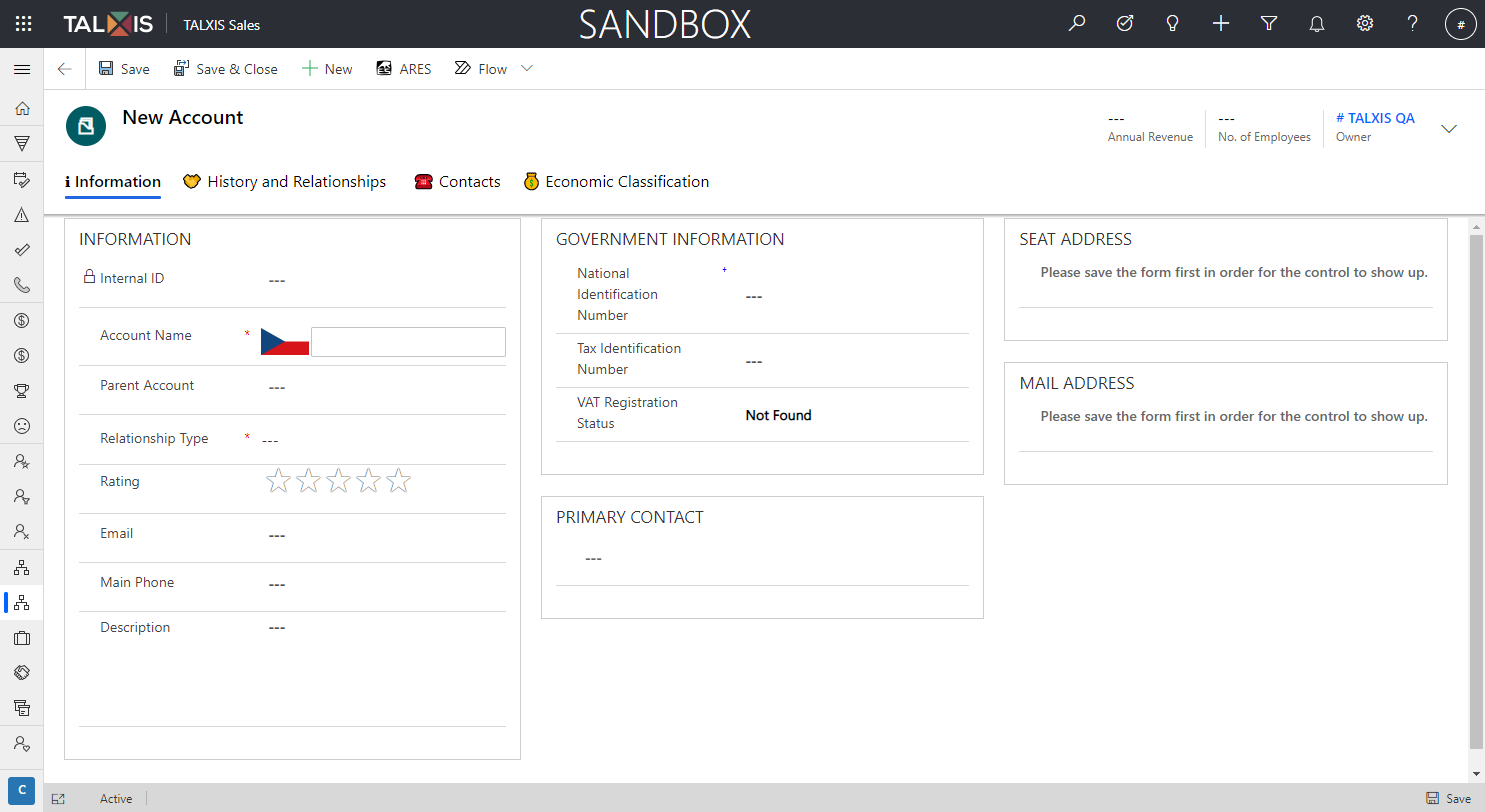
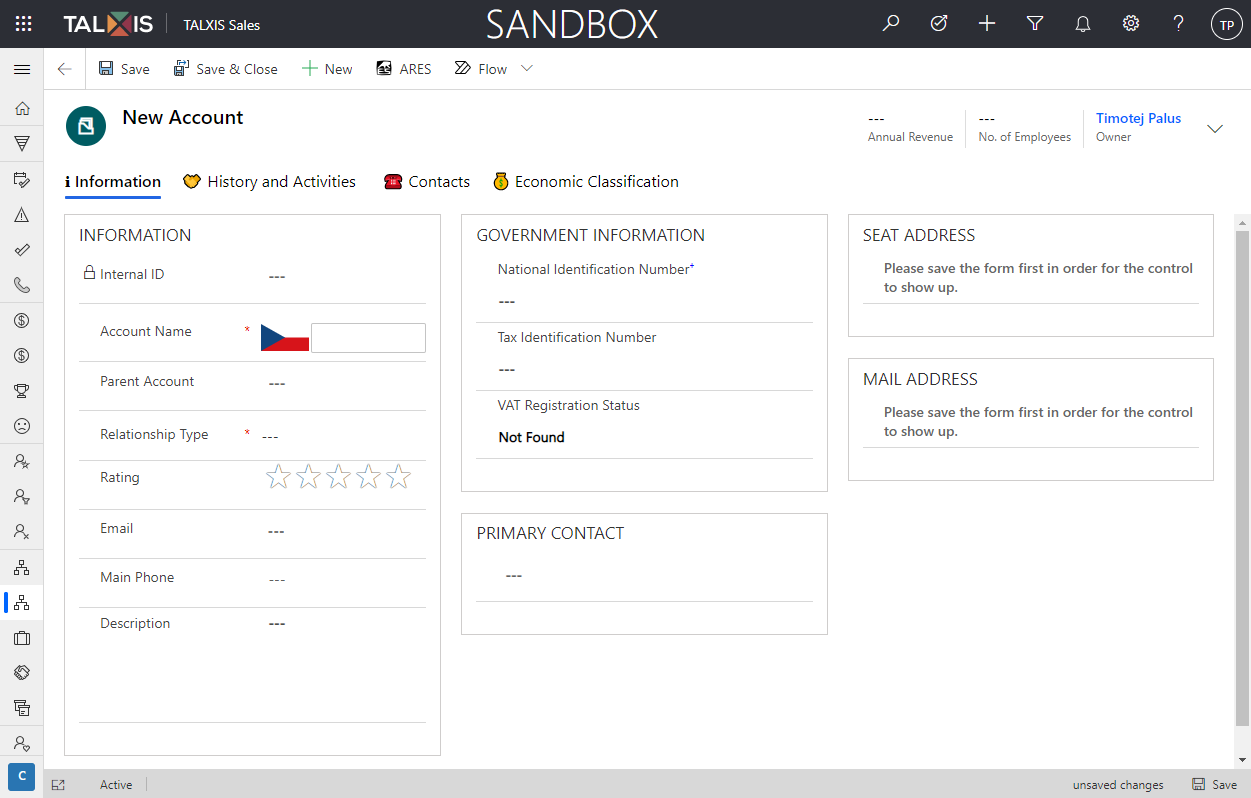
add account page, do little changes

diff --git a/src/.vuepress/config.js b/src/.vuepress/config.js
@@ -403,7 +403,8 @@ module.exports = config({
                                                     ] 
                                                 }                                      
                                             ]
-                                        },   
+                                        },
+                                        ['model-driven-apps/basic-app-elements/dashboards','Dashboards'],  
                                     ],
                         },
                         {

diff --git a/src/en/user-guide/model-driven-apps/business-process/contact-management/use-accounts.md b/src/en/user-guide/model-driven-apps/business-process/contact-management/use-accounts.md
@@ -3,11 +3,10 @@ author: Timotej Paluš
 ---
 
 # Use accounts to manage customer companies
-
+## What is an Account?
 Accounts are companies that you market and sell to. They can also be partner companies or suppliers. If you use accounts, you'll usually also set up at least one contact for each of them, these contacts usually represent employees at the company.
 
 ## List of all accounts
-
 You can view all created accounts in the application. To view them, just go to the **Organizations** group and you will see a view with accounts. In addition, the **Organizations** group is divided into customers, partners, suppliers for a better overview. If you don't know what views are, take a look at this page: [View records](/en/user-guide/model-driven-apps/basic-app-elements/views/).
 
 ![Accounts view](/.attachments/ModelDrivenAppUserGuide/accountsView.png)
@@ -24,11 +23,101 @@ Let's create a new account:
 
 ![Account form](/.attachments/ModelDrivenAppUserGuide/accountForm.png)
 
-in progress...
-## History of activities
+3. Fill in the form.
+
+There are many fields in the form that can be filled out. Not all fields and tabs are available immediately after opening the form, but only after saving the form. 
+
+The form header contains the **owner** of the account, **annual revenue** and the **number of employees** within the account.
+
+The fields described in the tables below are divided by section.
+
+**Account information**  
+| Field        | Description    | Example |
+|:------------- |:-------------|:------------|
+| Internal ID      | Automatically generated id after saving the account. | ORG00001 |
+| Account Name     | The account name can be found by selecting the country and entering the name. This field is **required**. [Select account](/en/user-guide/model-driven-apps/business-process/contact-management/use-accounts/#select-account-name)  | |
+| Parent Account | Parent account associated with account. You can select an existing company with [lookup control](/en/user-guide/model-driven-apps/basic-app-elements/lookup/) or create a new one via forms or [quickcreate form](/en/user-guide/model-driven-apps/basic-app-elements/forms#quickcreate-form/). |  |
+| Relationship Type |  Type of relationship with the organization. This field is **required** and you must select at least one relationship type. | Customer/Partner/Supplier/Prospect/Indirect Cutomer/Other |
+| Rating | Subjective rating of the account. More green stars means a higher rating. | ![Rating](/.attachments/ModelDrivenAppUserGuide/rating.png) |
+| Email | Account(company) email. | hello@networg.com |
+| Main Phone | Company phone number. |  |
+| Description | Brief description of the company. | A company with good manners and the ability to repay. |
+
+**Government information**
+
+| Field        | Description    | Example |
+|:------------- |:-------------|:------------|
+| National Identification Number     | National identification number of account. This field is filled in automatically when account name is selected. | 34114050 |
+| Tax Identification Number     | A Tax Identification Number (TIN) is a nine-digit number used as a tracking number. | |
+| VAT Registration Status | VAT Registration Status tells us whether the account is a reliable payer or an unreliable payer. | Reliable payer/Unreliable payer/Not found |
+
+**Selecting the country and entering the name**
+
+4. Save the form using the **Save** button.
+
+## Select account name 
+When you select an account, you set the country in which the account is located and the account name.
+
+**Select country**  
+When selecting a country, you can enter a country abbreviation or select from a list of countries.
+
+![Select country](/.attachments/ModelDrivenAppUserGuide/chooseCountry.gif)
+
+**Select account**  
+To select an account, just type in the name and you'll see the search results.
+
+![Select account](/.attachments/ModelDrivenAppUserGuide/selectAccount.gif)
+
+## Select primary contact
+On the form in the **PRIMARY CONTACT** section, set the main contact with whom you most often communicate within the company.
+
+You can select an existing contact with [lookup control](/en/user-guide/model-driven-apps/basic-app-elements/lookup/) or create a new one via [forms](/en/user-guide/model-driven-apps/business-process/contact-management/use-accounts/) or [quickcreate form](../../basic-app-elements/forms/#quickcreate-form).
+
+![Primary contact](/.attachments/ModelDrivenAppUserGuide/accountPrimaryContact.png)
+
+## Set seat and mail address
+Seat and mail address is automatically filled in after selecting the account. Addresses can be edited or added as shown on this [page](/en/user-guide/model-driven-apps/business-process/contact-management/use-contacts/#set-contact-address).
+
+![Seat Address](/.attachments/ModelDrivenAppUserGuide/seatAddress.png)
+
+## History and activities
+In the **History and Activities** tab you will find the timeline. The **timeline** is used to store **activities** linked to a record. This functionality is available only after saving a new account. More information [here](/en/user-guide/model-driven-apps/basic-app-elements/timeline/).
+
+![History and activities](/.attachments/ModelDrivenAppUserGuide/accountTimeline.png)
 
 ## Contacts associated with account
+In the **Contact** tab you can find all contacts that are assigned to the account. You can add new or delete old contacts. In the Contact tab you can find all contacts that are assigned to the account. You can add new or delete old contacts. This functionality is available only after saving a new account. If you don't know how to use the buttons at subgrid, see [Subgrid](/en/user-guide/model-driven-apps/basic-app-elements/subgrid/).
+
+![Contact associated with account](/.attachments/ModelDrivenAppUserGuide/accountContacts.png)
 
 ## Economic classification
+Economic classification classifies companies, organizations and traders into industrial groupings based on similar production processes, similar products, or similar behavior in financial markets. 
+
+You can select from existing economic classifications or create a new economic classification.
+
+**Create a new economic classification**
+1. In the subgrid, press **Add Existing Classification**.
+
+![Create a new economic classification](/.attachments/ModelDrivenAppUserGuide/economicClass.png)
+
+2. In the quick create form, select the **New record** and then select the **Classification of Economic Activities** type.
+
+3. You will be notified that you are leaving the form. Press **OK** and then enter the name of the classification in the form.
+
+![Create a new economic classification](/.attachments/ModelDrivenAppUserGuide/classificationForm.png)
+
+4. Press **Save & Close** in command bar.
+You will be redirected back to the account form and now when you press the **Add Existing Classification** button, you will see the classifications you have created in the list.
+
+5. Select a classification and add it to the account.
+
+![Create a new economic classification](/.attachments/ModelDrivenAppUserGuide/addClass.png)
 
 ## Deactivate account
+You deactivate an account or contact rather than deleting it. This ensures the integrity of the audit trail associated with that record.
+
+When a deactivated contact becomes inactive, it cannot be edited. However, it can still be used to establish new relationships with other records. All relationships created with the deactivated item are still available.
+
+1. To deactivate an account, press the **Deactivate** button and confirm it in the dialog. 
+
+![Create a new economic classification](/.attachments/ModelDrivenAppUserGuide/deactivateAccount.png)

diff --git a/src/en/user-guide/model-driven-apps/business-process/contact-management/use-contacts.md b/src/en/user-guide/model-driven-apps/business-process/contact-management/use-contacts.md
@@ -46,7 +46,7 @@ The fields described in the tables below are divided by section.
 **Account information**
 | Field        | Description    | Example |
 |:------------- |:-------------|:------------|
-| Company Name | The name of the company (account) for which the contact works. You can select an existing company or create a new one via [forms](/en/user-guide/model-driven-apps/business-process/contact-management/use-accounts/) or [quickcreate form](/en/user-guide/model-driven-apps/basic-app-elements/forms/). | |
+| Company Name | The name of the company (account) for which the contact works. You can select an existing company with [lookup control](/en/user-guide/model-driven-apps/basic-app-elements/lookup/)  or create a new one via [forms](/en/user-guide/model-driven-apps/business-process/contact-management/use-accounts/) or [quickcreate form](/en/user-guide/model-driven-apps/basic-app-elements/forms#quickcreate-form/). | |
 | Job Title     | A title that describes someone's job or position. | accountant/programmer/social media specialist etc.|
 | Department | A part of an organization. | business/school/government etc. |
 | C-level | C-level, also called the C-suite, is a term used to describe high-ranking executive titles in an organization. | from C-0 to C-6 |
@@ -58,8 +58,8 @@ The fields described in the tables below are divided by section.
 | Preferred Method of Contact | Preferred method of communication with the contact. | Any/Email/Fax/Phone/Mail |
 | Business Email | Business email address is simply an email used specifically for your organization. | eric.cartmen@organization_name.com |
 | Personal Email | Personal contact email. | eric.cartman@gmail.com |
-| Mobile Phone |  Contact personal phone number | |
-| Company Phone | Contact company phone number. | |
+| Mobile Phone |  Personal phone number | |
+| Company Phone | Company phone number. | |
 
 4. Save the form using the **Save** button.
 
@@ -92,15 +92,6 @@ If you have any personal notes for a contact, you can write them in personal not
 
 ## History of activities
 In the history and relationships tab you will find the timeline. The **timeline** is used to store **activities** linked to a record. More information [here](/en/user-guide/model-driven-apps/basic-app-elements/timeline/).
-
-<!-- **Connections** are records that are associated to a contact such as sales team members, family, stakeholders, etc.
-
-### Create a new connection
-1. Select **+ New Connection** or **Connect** button in command bar.
-
-![Connection button](/.attachments/ModelDrivenAppUserGuide/connectionButton.png)
-
-in progress... -->
 
 ## Consents
 On the **Consents** tab, you can see the consents granted to you, for example, for sending offers or newsletters and the validity dates of the given consents or the preferred or permitted methods of contacting you.

diff --git a/src/en/user-guide/model-driven-apps/business-process/sales/create-or-edit-opportunity.md b/src/en/user-guide/model-driven-apps/business-process/sales/create-or-edit-opportunity.md
@@ -2,7 +2,7 @@
 author: Timotej Paluš
 ---
 
-# Create or edit Opportunities in Sales process
+# Create or edit Opportunities in sales process
 
 In Sales process, an **opportunity** is a potential sale, like a lead, but with an opportunity you can forecast revenue, set a estimated close date, or current situation for the sale. You can also track activities in timeline that are performed with opportunity or set scheduled follow-up activity.
 
@@ -11,11 +11,11 @@ In Sales process, an **opportunity** is a potential sale, like a lead, but with 
 
 You can convert qualified leads to opportunities without reentering the data, and then you can track opportunities through the sales cycle. When you convert a qualified lead to an opportunity, you can access the lead record, which includes activities and notes, from the corresponding opportunity form.
 
-_The preferred way is to create an opportunity from a lead._ See [Qualify and convert a lead to an opportunity](/en/user-guide/model-driven-apps/business-process/sales/create-and-manage-lead/#heading2).
-
 -OR-
 
 You can create a new opportunity that didn't originate from a lead.
+
+> The preferred way is to create an opportunity from a lead. See [Qualify and convert a lead to an opportunity](/en/user-guide/model-driven-apps/business-process/sales/create-and-manage-lead/#qualify-and-convert-a-lead-to-an-opportunity).
 
 ## Create Opportunity
 
@@ -29,7 +29,7 @@ The Opportunity form opens.
 
 3) In the opportunity form, make sure that your potential customer’s important details are captured.
 
-_When you create opportunity from lead, most of the fields will be automatically populated from the lead record._
+> When you create opportunity from lead, most of the fields will be automatically populated from the lead record.
 
 Required fields:
 

diff --git a/src/en/user-guide/index.md b/src/en/user-guide/index.md
@@ -3,7 +3,10 @@ author: Timotej Paluš
 ---
 
 # Introduction
-Welcome to the talxis user documentation! We are glad that you want to learn how to use the application in your organization or you are just interested in business applications. 
+
+![Subrid contacts](/.attachments/ModelDrivenAppUserGuide/logo_with_borders.png)
+
+Welcome to the **TALXIS user guide**! We are glad that you want to learn how to use the application in your organization or you are just interested in business applications. 
 
 This documentation will guide you through the application, its components, where the components are located, and how to work with the entire application. 
 
@@ -16,9 +19,10 @@ First you will go through the individual components such as navigation menu, lis
     - [Site map](/en/user-guide/model-driven-apps/basic-app-elements/sitemap/)
     - [View records](/en/user-guide/model-driven-apps/basic-app-elements/views/)
     - [Forms and their components](/en/user-guide/model-driven-apps/basic-app-elements/forms/)
+    - [Dashboards](/en/user-guide/model-driven-apps/basic-app-elements/dashboards/)
 - **Learn how to work with contacts and companies(accounts)**
     - [Use contacts to manage people](/en/user-guide/model-driven-apps/business-process/contact-management/use-contacts)
-    - Use accounts to manage companies (_in-progress_)
+    - [Use accounts to manage companies](/en/user-guide/model-driven-apps/business-process/contact-management/use-contacts)
     - Track and manage activities for accounts (_in-progress_)
 - **Sales management**
     - [Develop sales from lead to cash](/en/user-guide/model-driven-apps/business-process/sales/develop-sales-from-lead-to-cash/)

diff --git a/src/en/user-guide/model-driven-apps/basic-app-elements/dashboards.md b/src/en/user-guide/model-driven-apps/basic-app-elements/dashboards.md
@@ -1,0 +1,22 @@
+---
+author: Timotej Paluš
+---
+
+# Track your progress with dashboards and charts
+A dashboard is made up of a collection of easy-to-read charts and graphs that provide visual representation of filtered app data. The interactive charts and graphs on a dashboard display important data that gives you a 360-degree view of your business.[](https://docs.microsoft.com/en-us/powerapps/user/track-your-progress-with-dashboard-and-charts)
+
+![Dashboards](/.attachments/ModelDrivenAppUserGuide/dashboards.png)
+
+## Switch between dashboards
+
+![Switch between dashboards](/.attachments/ModelDrivenAppUserGuide/switchDashboard.png)
+
+## Expand, refresh, and view rows in chart
+
+![Expand, refresh, and view rows](/.attachments/ModelDrivenAppUserGuide/dashboard.png)
+
+Legend:
+
+1. **Expand Chart**: Shows the chart in full screen mode. The chart is still interactive in expanded mode.
+2. **Refresh**: Refreshes the rows in the chart.
+3. **View Rows**: See the chart and the underlying rows together. This opens the chart for the corresponding rows.

diff --git a/src/en/user-guide/model-driven-apps/business-process/sales/create-and-manage-lead.md b/src/en/user-guide/model-driven-apps/business-process/sales/create-and-manage-lead.md
@@ -51,7 +51,7 @@ Navigate to **Identify** stage and click on **Next Stage**.
 ## Qualify and convert a lead to an opportunity
 If your lead has potential to become a sale, you can qualify the lead to an opportunity. When you qualify a lead, a new record to represent the lead as an opportunity is created. Any notes or activities on a lead record do not transfer to the opportunity record. The notes remain with the originating lead record.
 
-_This is one way to create an Opportunity. More information in the [Create or edit opportunities](/en/user-guide/model-driven-apps/business-process/sales/create-or-edit-opportunity) section._
+> This is one way to create an Opportunity. More information in the [Create or edit opportunities](/en/user-guide/model-driven-apps/business-process/sales/create-or-edit-opportunity) section.
 
 1) Go to **Leads**
 

diff --git a/src/en/user-guide/model-driven-apps/basic-app-elements/subgrid.md b/src/en/user-guide/model-driven-apps/basic-app-elements/subgrid.md
@@ -2,8 +2,8 @@
 author: Timotej Paluš
 ---
 
-# Sub-grid
-Subgrid is view (list records) like that we already known from previous section(**View records**). Subgrid contains all related records for particular record. With the subgrid you can perform the same actions such as sorting, filtering, etc.
+# Subgrid
+Subgrid is view (list records) like that we already known from previous section([View records](/en/user-guide/model-driven-apps/basic-app-elements/view/)). Subgrid contains all related records for particular record. With the subgrid you can perform the same actions such as sorting, filtering, etc.
 
 **_Example:_** Account can have multiple contacts. To see them all on the form, we need subgrid.
 

diff --git a/src/en/user-guide/model-driven-apps/basic-app-elements/select-application.md b/src/en/user-guide/model-driven-apps/basic-app-elements/select-application.md
@@ -3,7 +3,7 @@ author: Timotej Paluš
 ---
 
 # Select Application
-After [logging](/en/user-guide/model-driven-apps/basic-app-elements/login-to-app/) in to the environment, you will be given the option to select the application you need to work with. Select one of the applications and you will be automatically redirected to the **App**. 
+After [logging](/en/user-guide/model-driven-apps/basic-app-elements/login-to-app/) in to the environment, you will get the option to select the application you need to work with. Select one of the applications and you will be automatically redirected to the **Application**. 
 
 ## List of applications after login
 

diff --git a/src/en/user-guide/model-driven-apps/business-process/sales/create-and-manage-order.md b/src/en/user-guide/model-driven-apps/business-process/sales/create-and-manage-order.md
@@ -74,7 +74,7 @@ The last way to create an order is from an accepted quote.
 
 A new order will be generated with the same products and other values will be transferred to the order as well as for example Subject, Account, Originating opportunity etc.
 
-## Confirm an order
+## Confirm an order(Deprecated)
 To confirm an order, you must be in the opportunity and the order must contain at least **one product**. See [Add products to order](/en/user-guide/model-driven-apps/business-process/sales/add-products-to-quote-order/).
 
 ### Confirm an order from subgrid

diff --git a/src/en/user-guide/model-driven-apps/business-process/sales/create-and-manage-quote.md b/src/en/user-guide/model-driven-apps/business-process/sales/create-and-manage-quote.md
@@ -19,7 +19,7 @@ There are several ways to create a quote. Let's take a look at them:
 
 3) Select **Quotes** tab or just click on **Create Quote** button in command bar.
 
-_The steps below are linked to creating a quote via subgrid_.
+> The steps below are linked to creating a quote via subgrid.
 
 You should see Quotes subgrid.
 

diff --git a/src/en/user-guide/model-driven-apps/business-process/sales/gain-insights-with-dashboards.md b/src/en/user-guide/model-driven-apps/business-process/sales/gain-insights-with-dashboards.md
@@ -11,3 +11,5 @@ Dashboards use views, lists, and charts to bring data that's meaningful to you t
 Dashboards are in the sitemap as **Sales Overview** in dashboards group
 
 ![Dashboards navigation](/.attachments/ModelDrivenAppUserGuide/dashboardsNavigation.png)
+
+in-progress...
